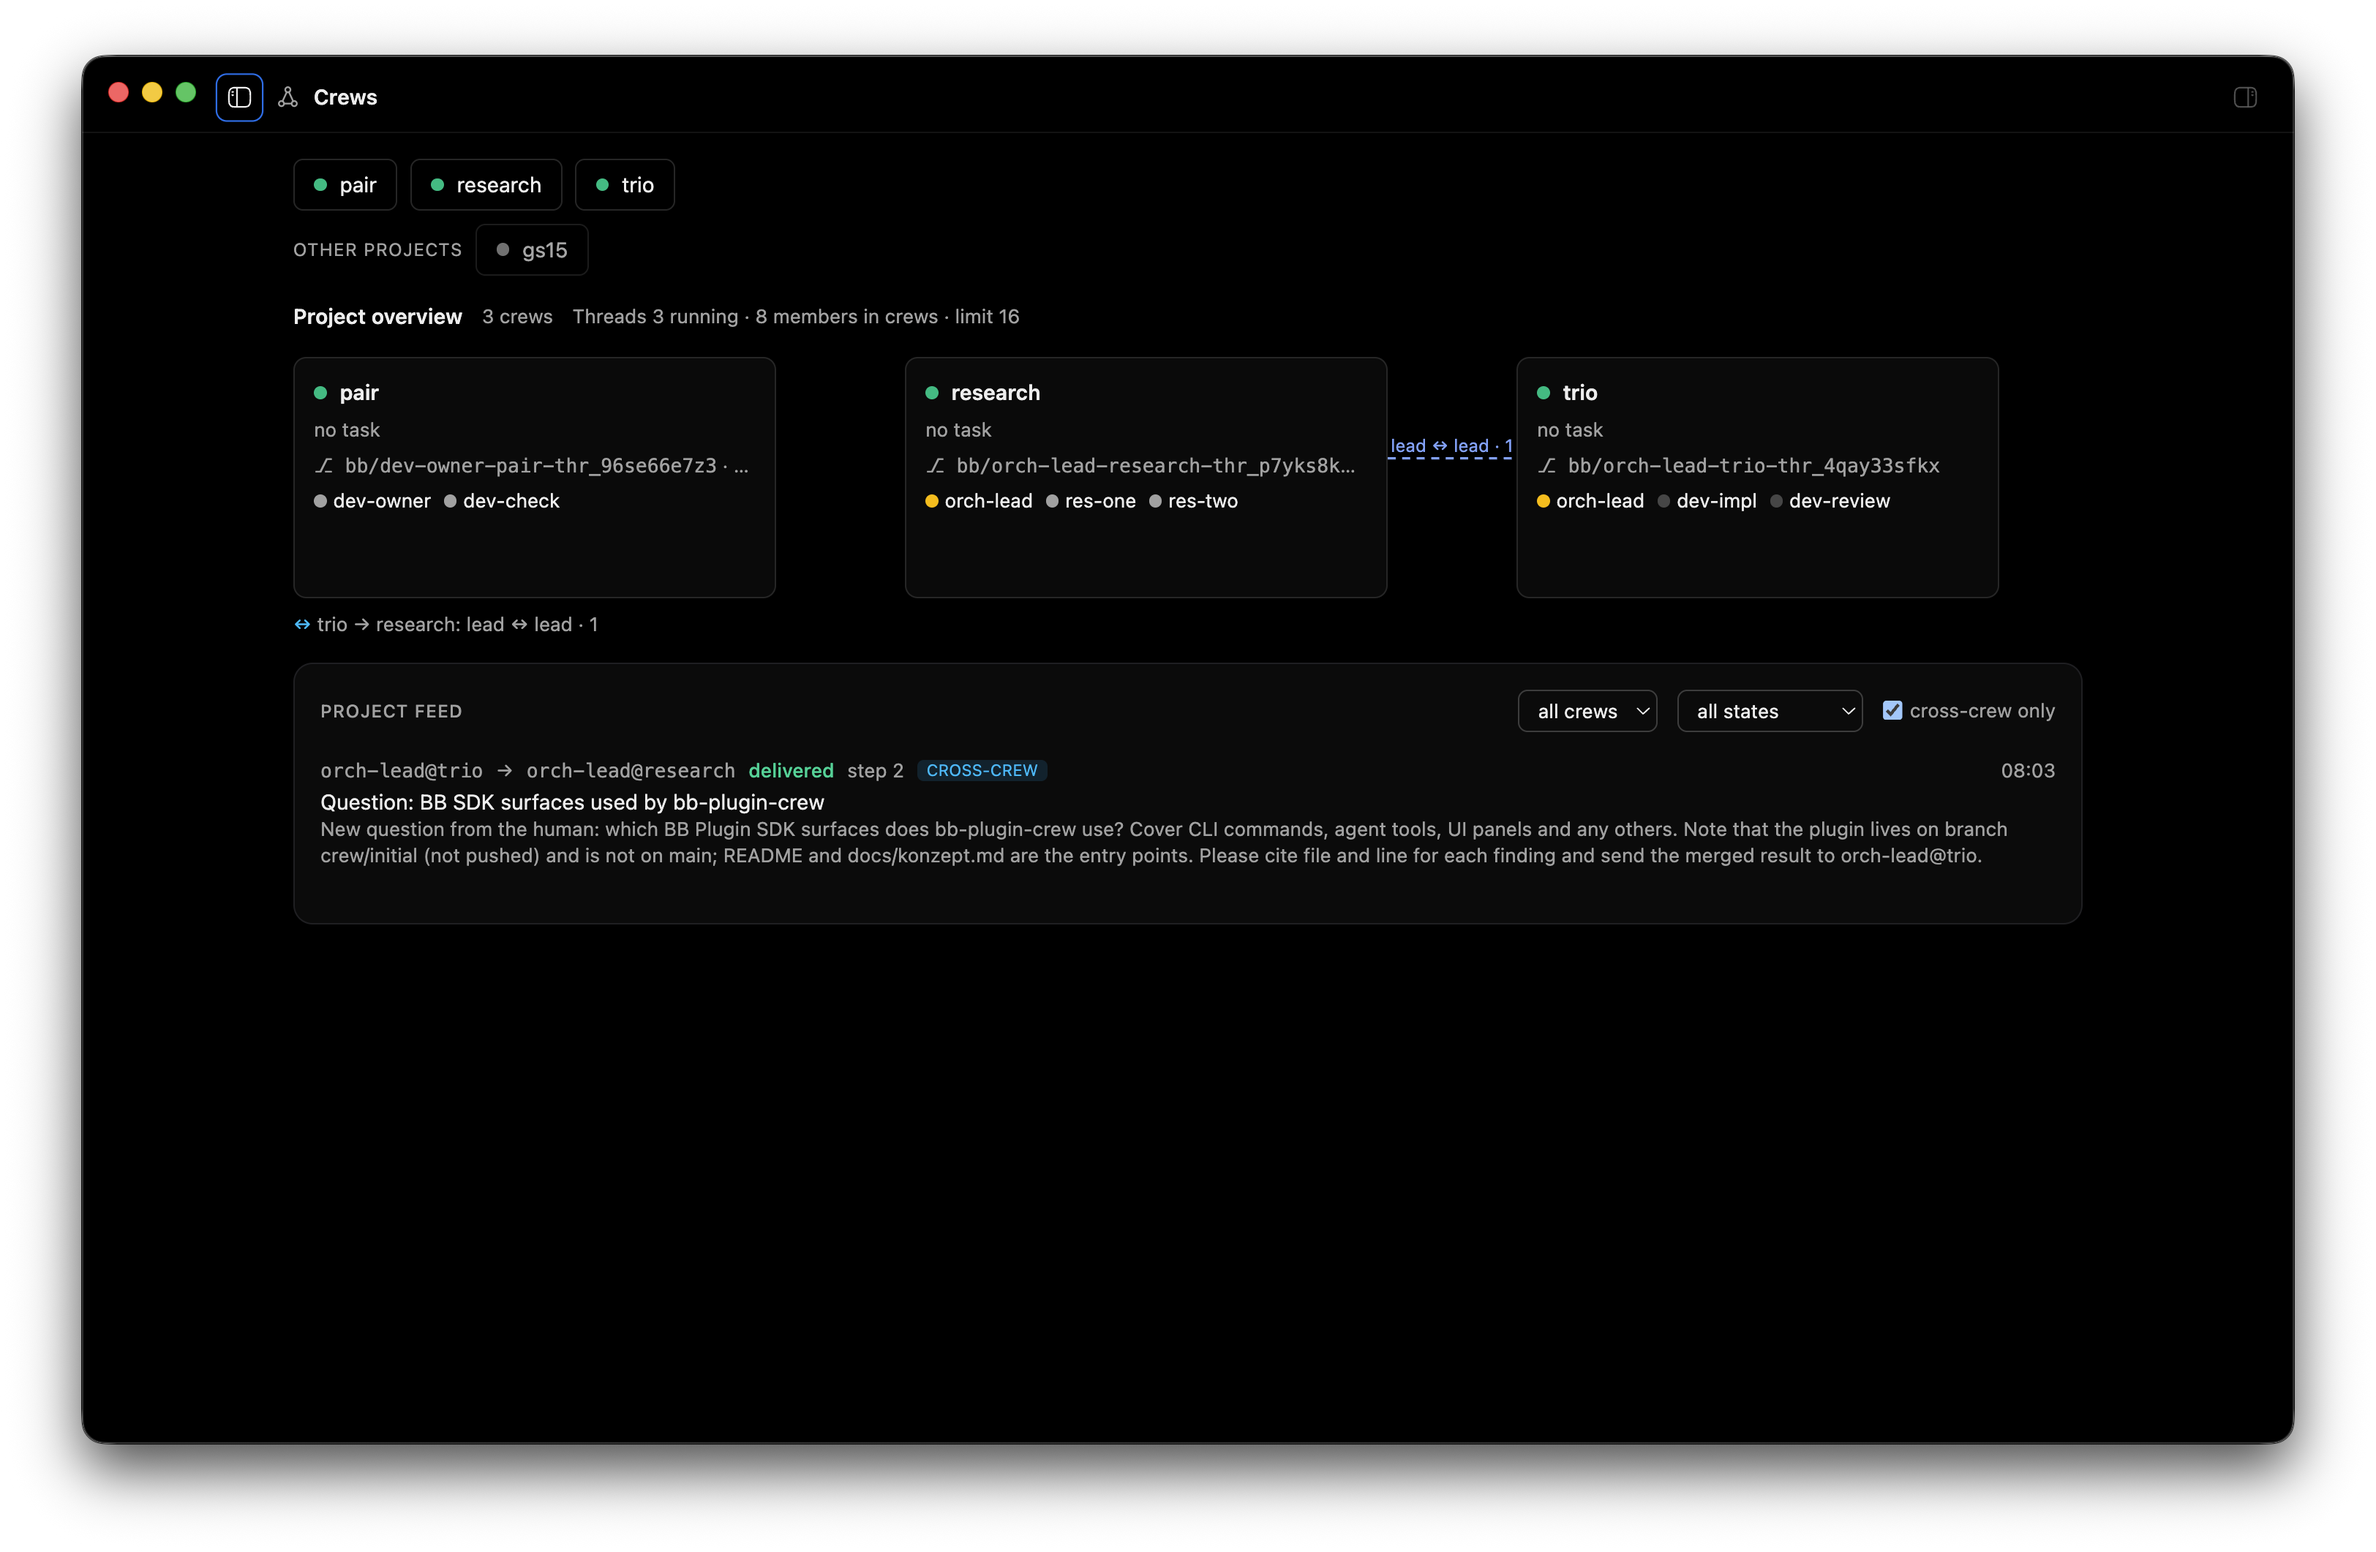
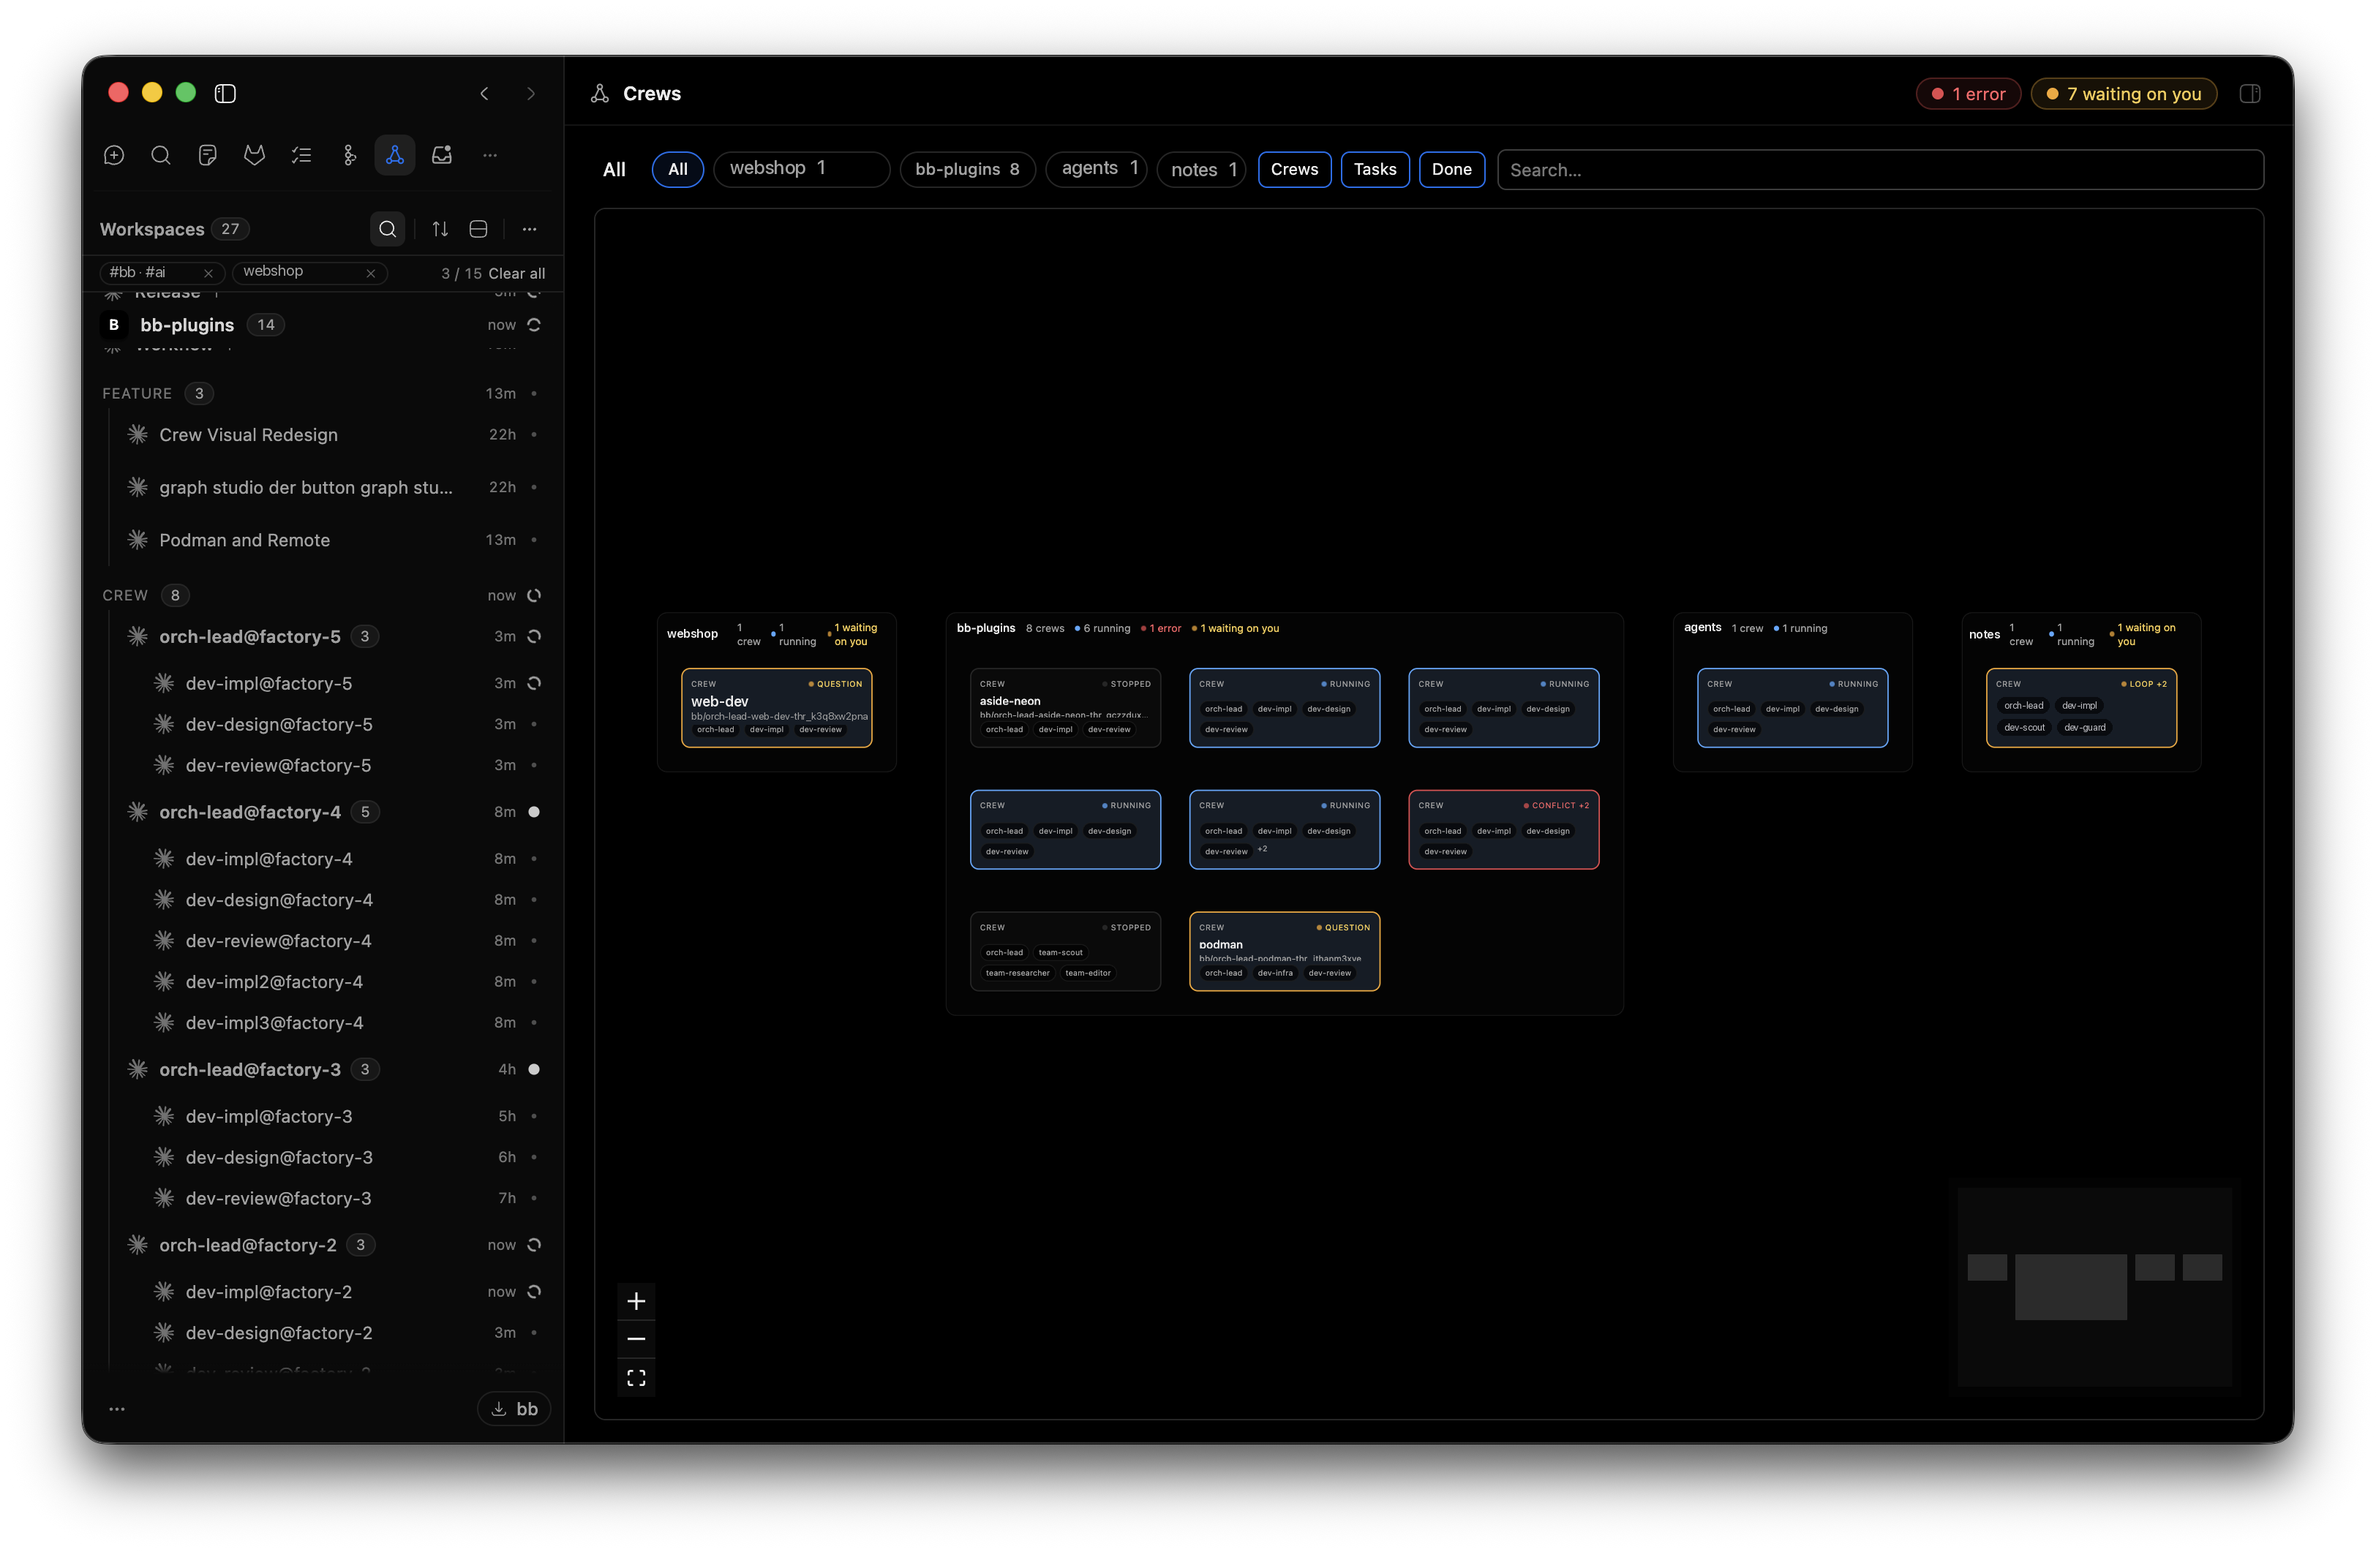
Update crew overview and screenshots for 0.1.1 (#469)
Automated note from a Claude Code agent, posted on behalf of the marketplace maintainer.

Verified exact selected plugin releases install/load on BB 0.45.0, required marketplace format passes, and no malware evidence or author self-addition to New and Notable was found. Intentional existing-entry changes are approved. Merging only after required CI passes.

diff --git a/overview/crew.md b/overview/crew.md
@@ -12,7 +12,18 @@ apply again: only the difference is applied, and `bb crew plan` shows it first.
 Members message each other by address, share a channel and a work queue, and
 hand off work with a subject such as a task key. Writing members get their own
 worktree; readers share the crew's. A member that waits for you shows up in
-**Needs you** with its question.
+**Needs you** with its question — including a Graph Studio run of theirs that
+is sitting on a human node.
+
+## Running a Graph Studio graph from a member
+
+`graphs:` on a member (inherited from the crew/group, like `instructions` and
+the new `skills:`) names which graphs it may run; `crew_graph_run(graph,
+input)` starts one and blocks until it finishes, carrying the member's
+address, key and role into the run's input. Every run is linked back to its
+member and shows with its live status on the member card; `bb crew stop`
+cancels open runs and `bb crew delete --threads delete` also removes their
+worker threads.
 
 ## Several crews in one project
 
@@ -24,12 +35,18 @@ limit, so two crews cannot ping-pong forever.
 
 ## See who works
 
-**Crews** in the sidebar opens a project overview: every crew with its branch,
-members and state, lines for lead-to-lead traffic, and a project feed that can
-show cross-crew messages only. Each crew has a topology view, a table with the
-feed, and an editor for the crew file with a preview identical to
-`bb crew plan` and one Apply button. `::crew{crew="…"}` renders a live card in
-chat.
+**Crews** in the sidebar opens one zoomable canvas with four levels: all
+projects → one project → one crew → one member. Every card shows its state —
+running, stopped, or waiting on you — and the header counts **Needs you**
+across all projects. BB Tasks labelled `crew-<crew>` are drawn as edges to the
+crew working on them, and lines between crews show lead-to-lead traffic. A
+crew's side panel holds its members, a table with the feed, and an editor for
+the crew file (YAML and form, with a preview identical to `bb crew plan` and
+one Apply button). `::crew{crew="…"}` renders a live card in chat.
+
+**Needs you** lists only what needs a decision: an open question or approval,
+a merge request, a merge conflict, a stopped loop with its reason, or a graph
+run waiting on a human node. Settled items drop out on their own.
 
 ## Merge requests inside the crew
 
@@ -51,7 +68,8 @@ bb crew stop trio
 
 Agents inside a crew use the same functions as tools, for example `crew_send`,
 `crew_peers` and `crew_directory`. Graph Studio can run a step on a crew member
-through its `member` node.
+through its `member` node, and a member with `graphs:` set can run a Graph
+Studio graph itself with `crew_graph_run`.
 
 ## Requirements and limits
 
